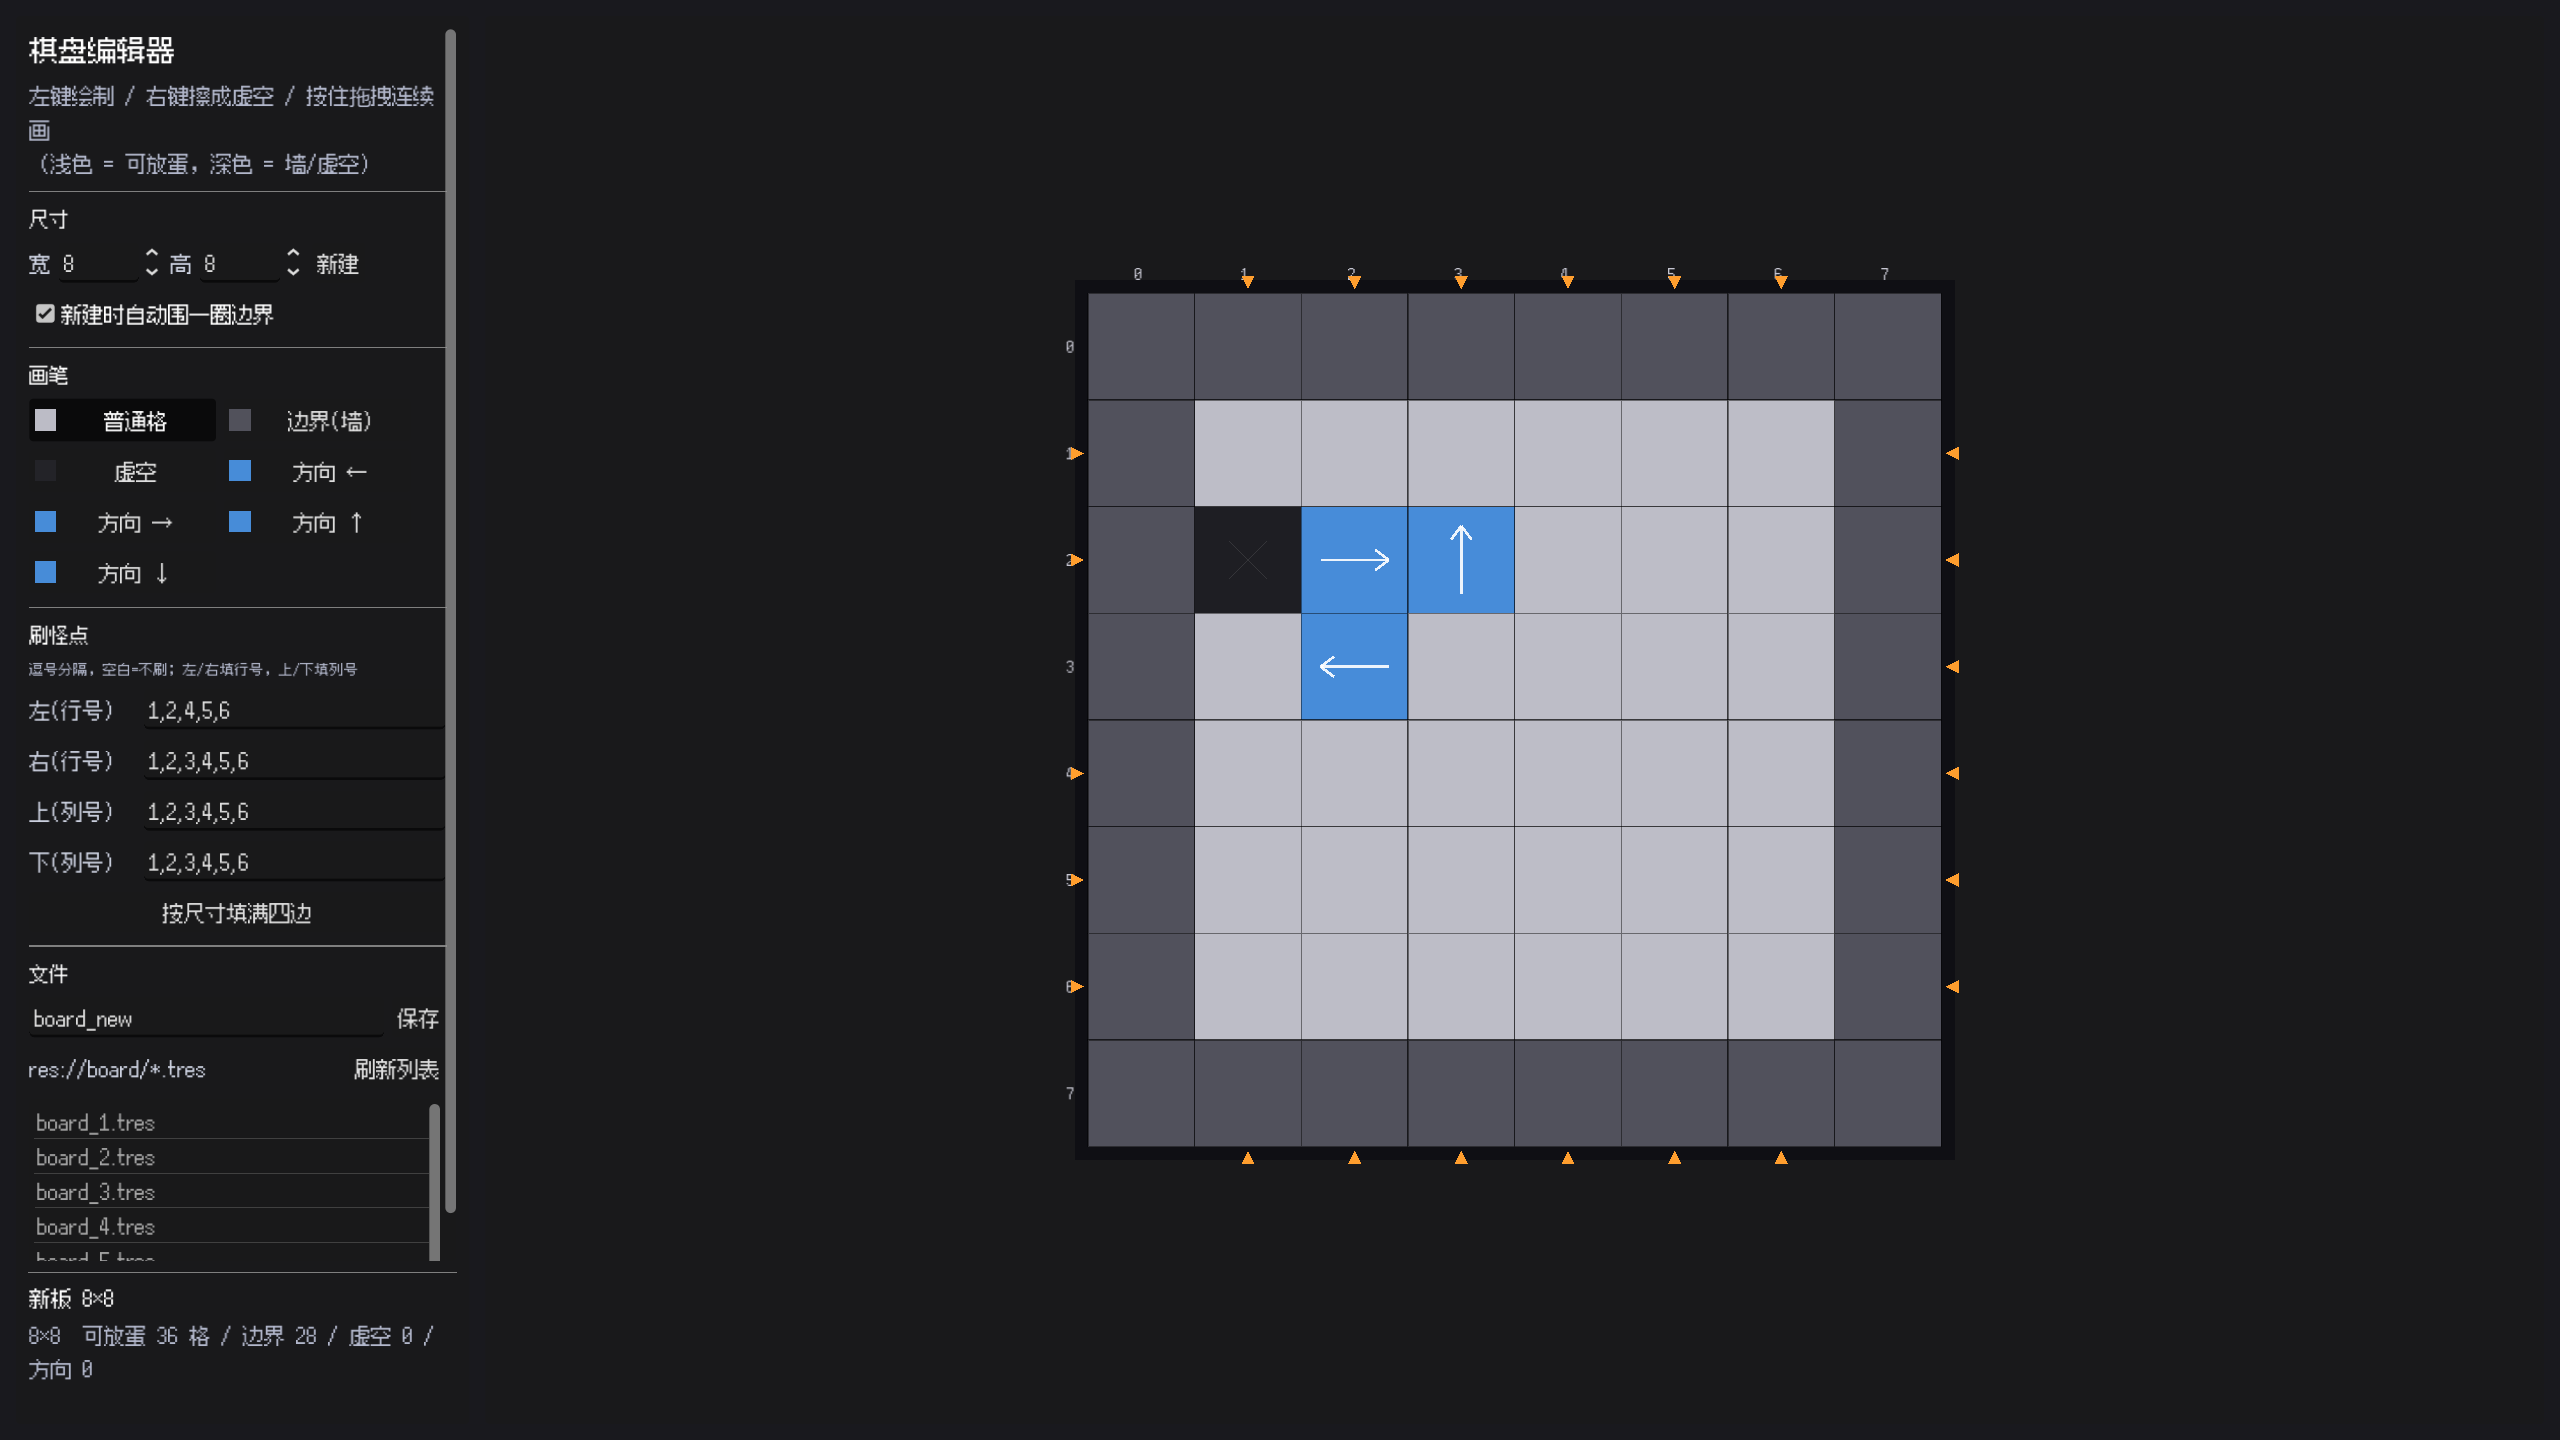
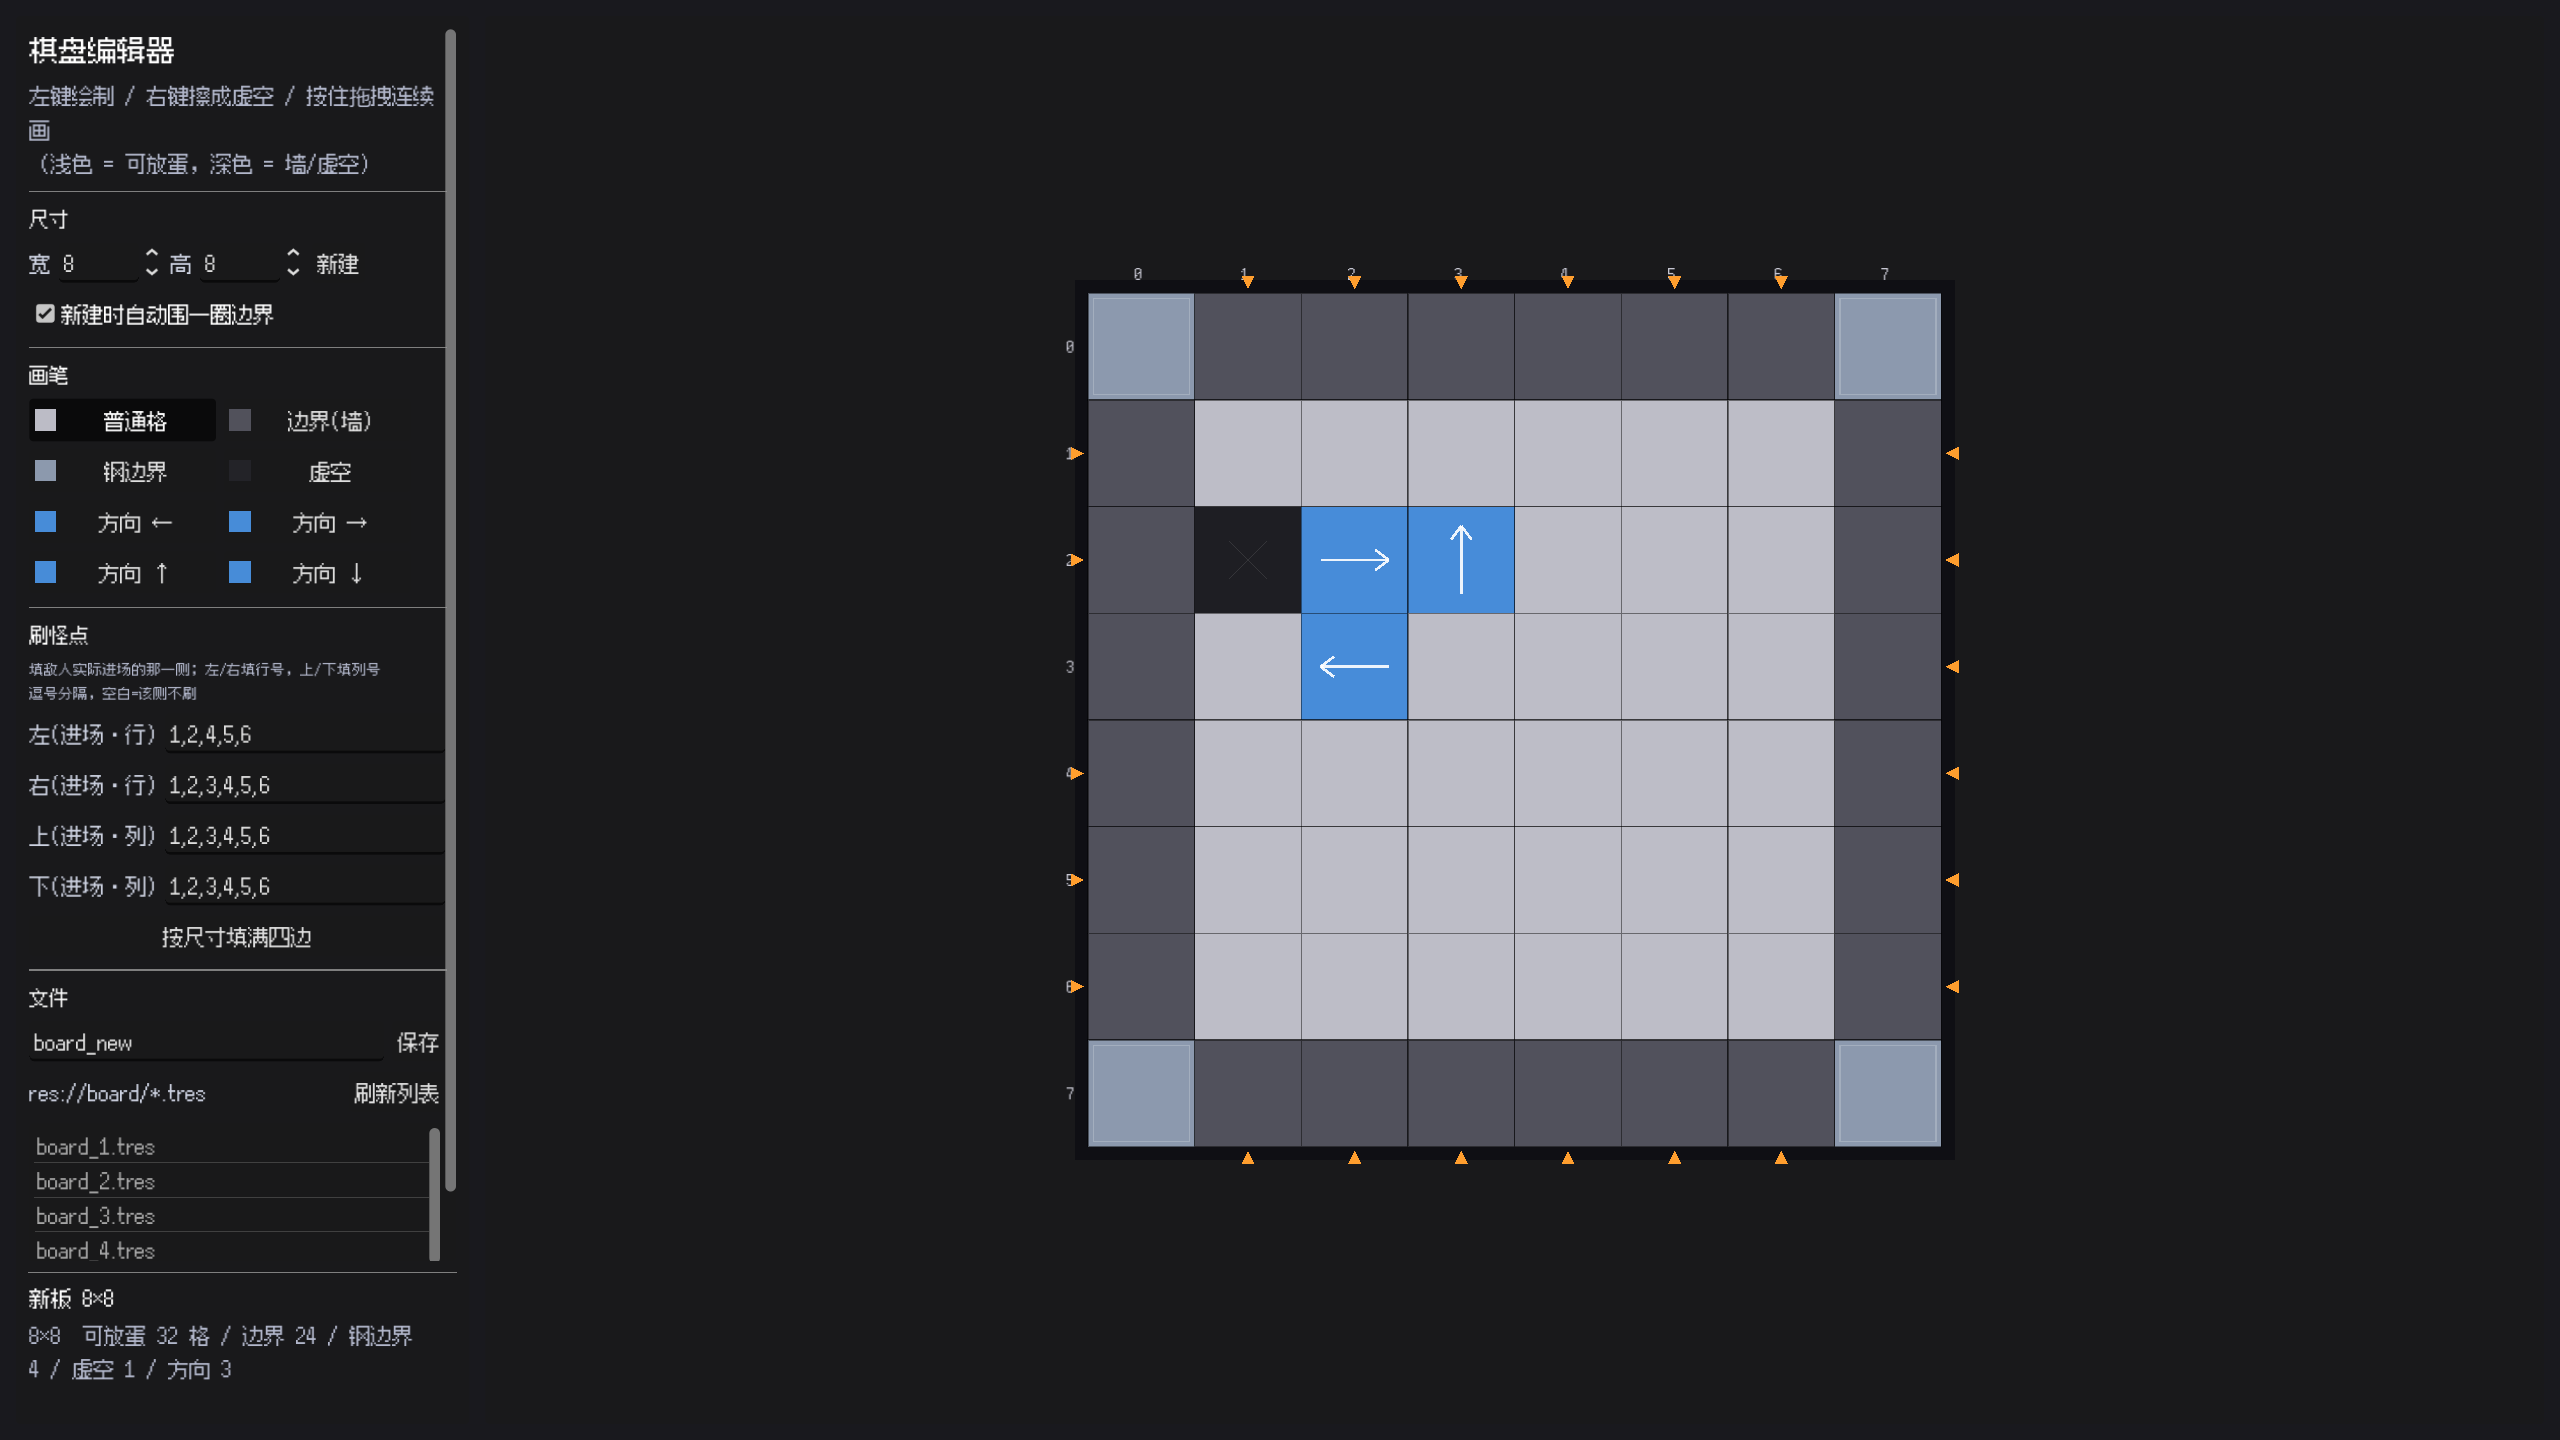
新增几个新棋盘

diff --git a/tools/board_editor/README.md b/tools/board_editor/README.md
@@ -14,11 +14,13 @@
 1. **尺寸**：填宽/高（3~30），点“新建”。勾选“自动围一圈边界”会先把最外圈铺成墙。
 2. **画格子**：左边选画笔，在右边网格上按住左键拖动即可连续画；右键擦成“虚空”。
    - 普通格：可放蛋
-   - 边界(墙)：`is_edge` + 碰撞，耐久 100
+   - 边界(墙)：`is_edge` + 碰撞，耐久 100，会被敌人打掉
+   - 钢边界：和边界一样挡路，但不可破坏（拐角用，告诉玩家这里不用守）
    - 虚空：不可用、不显示
    - 方向 ← → ↑ ↓：可发射方向格
-3. **刷怪点**：左/右填行号、上/下填列号，逗号分隔（例如 `1,2,3`）。
+3. **刷怪点**：填的是敌人**实际进场的那一侧**，左/右填行号、上/下填列号，逗号分隔（例如 `1,2,3`）。
    画布边缘的橙色小三角就是当前刷怪点；“按尺寸填满四边”会填成 1..n-2。
+   底层 `enemy_spawn_point_*` 同样按进场侧命名（`left` = 从左边进场），和界面上的一一对应。
 4. **保存**：填文件名（不用写 `.tres`），点保存 → 写到 `res://board/<名字>.tres`。
 5. **读取/修改**：下方列表点一下即可载入 `res://board/` 里的某块板，改完再保存。
    载入 `board_1.tres` 这种已有板子时，原有的格子资源和刷怪点会被原样保留，只有你涂过的格子会变。
